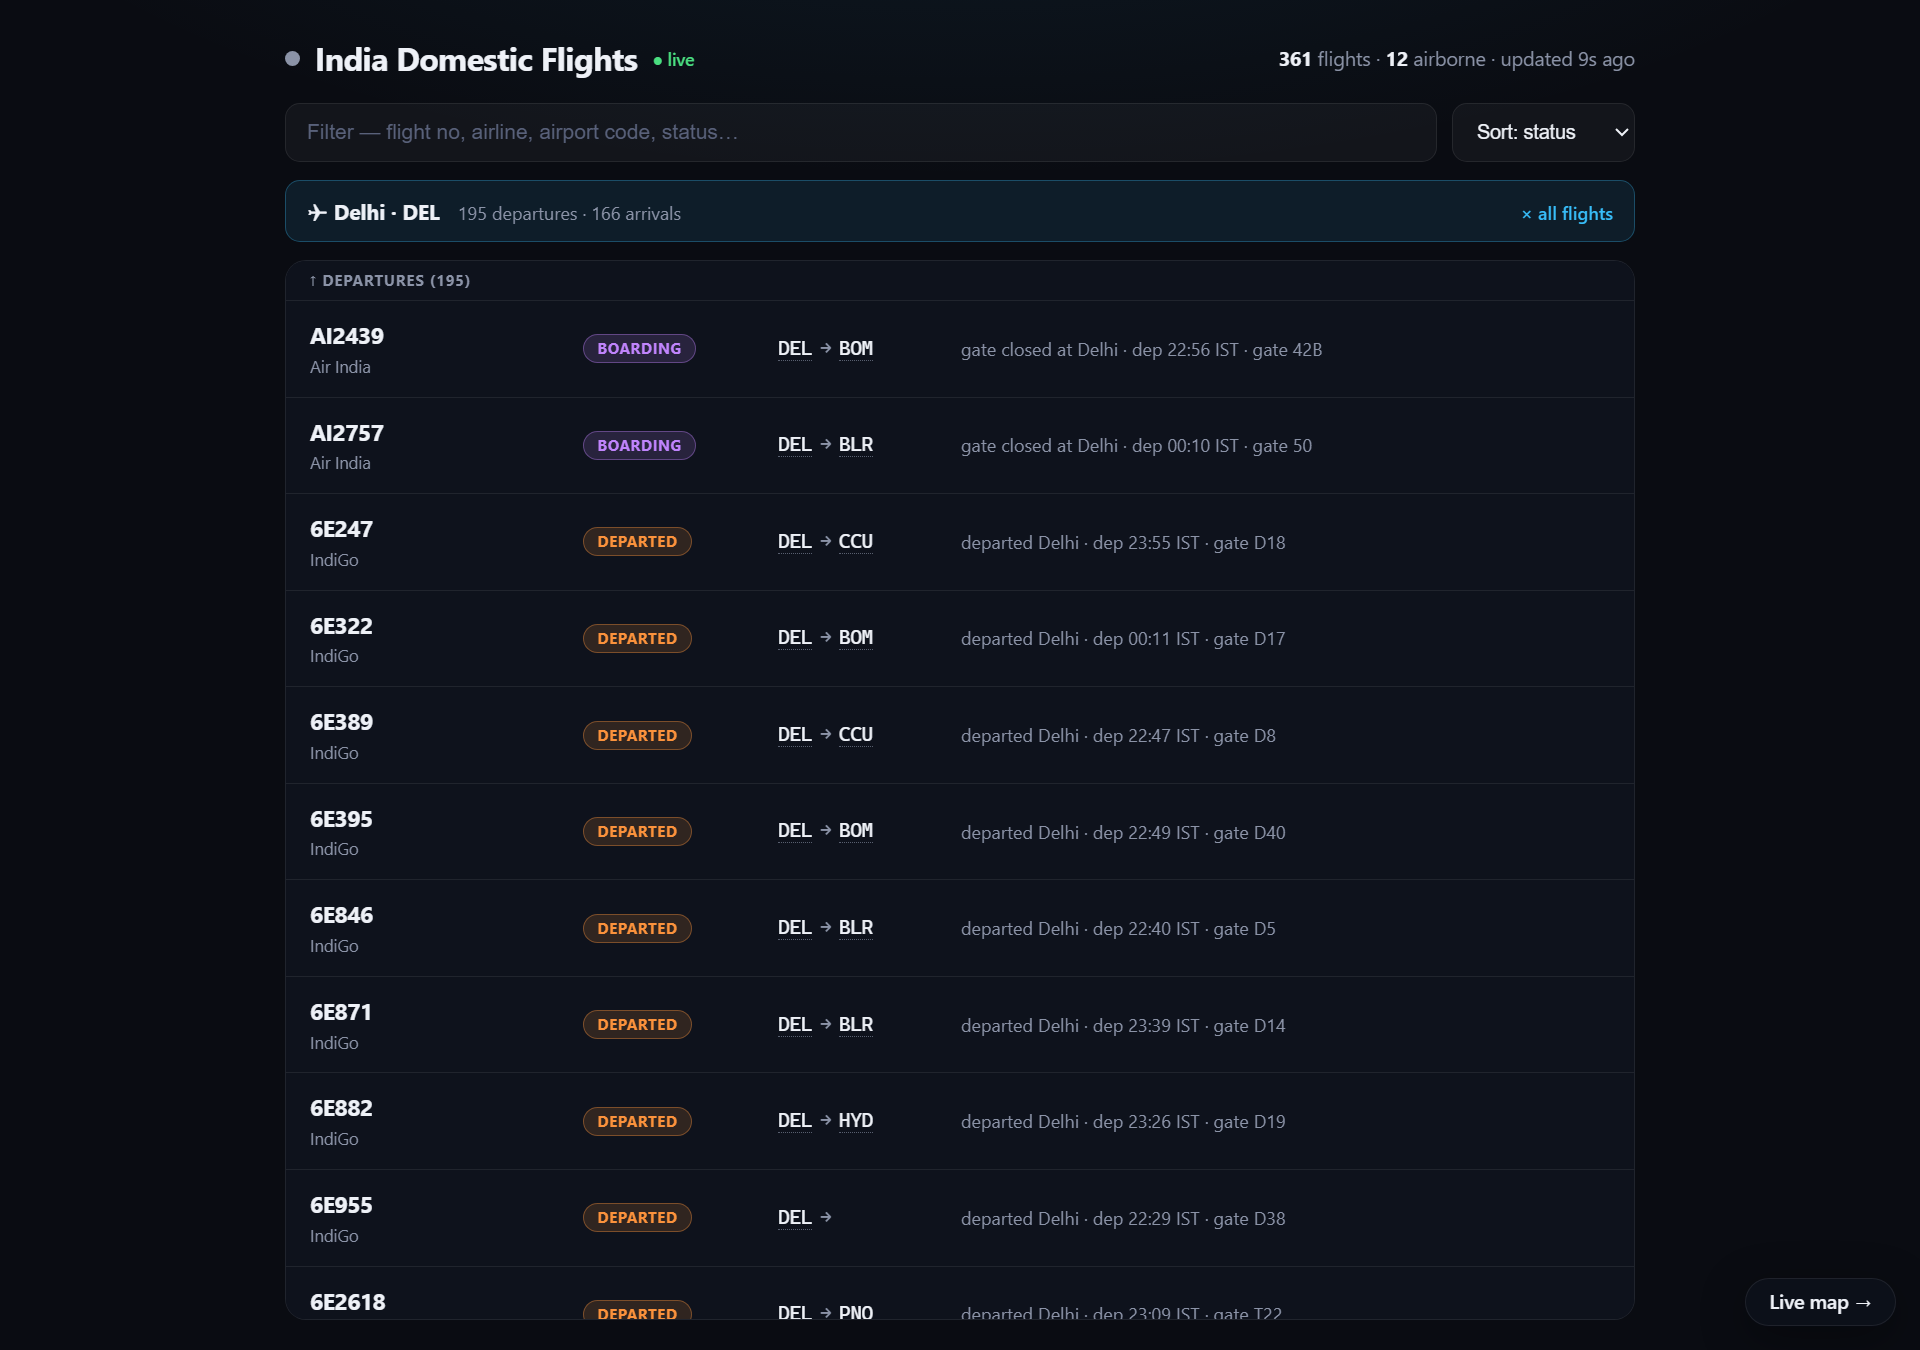
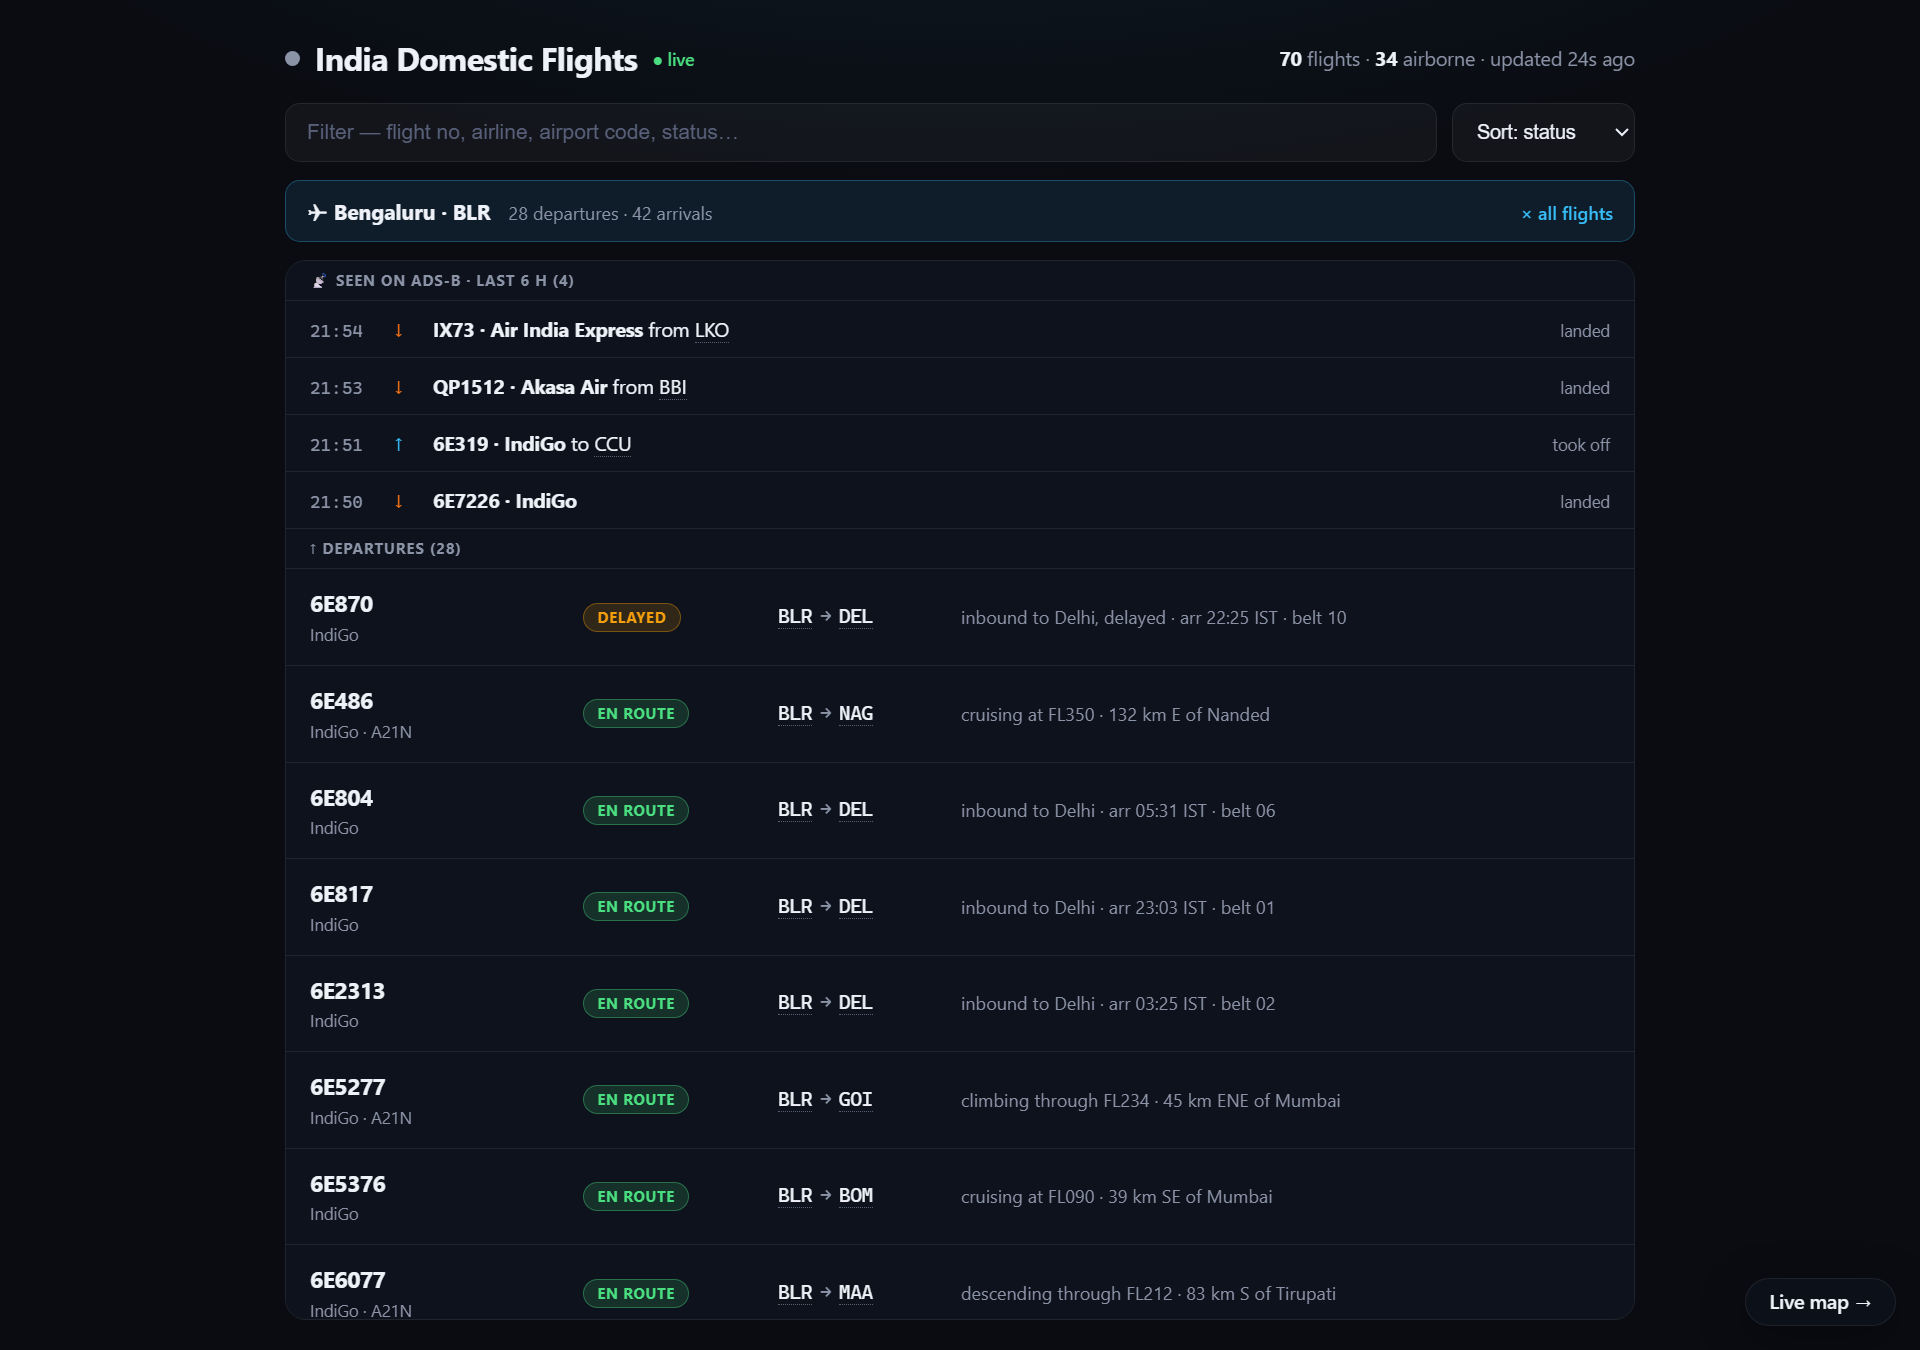
README: retake the airport screenshot with observed movements
Bengaluru, captured from the live deploy: the "Seen on ADS-B" list (real
landings and a takeoff heard in the last few minutes) above the split
departures and arrivals. Fix the text that still said the list sits below.

diff --git a/README.md b/README.md
@@ -25,8 +25,9 @@ the first request after an idle period takes ~40 s to wake.
 - **Airport boards & deep-links** - click any airport code in a route for that
   airport's board, split into departures and arrivals. Every view is a shareable URL:
   `#airport/DEL`, `#flight/6E2361`, `#map`. `GET /api/airport/{iata}` serves the same
-  split as JSON. Below it, a **Seen on ADS-B** list shows the takeoffs and landings
-  actually heard at that airport in the last six hours, for any airport the feeds cover.
+  split as JSON. Above the schedule, a **Seen on ADS-B** list shows the takeoffs and
+  landings actually heard at that airport in the last six hours, for any airport the
+  feeds cover.
 - **Live map** - aircraft as heading-aligned silhouettes coloured by altitude, with
   dead-reckoned motion between updates and a trail for the selected flight.
 - **Historical playback** - a scrubber over persisted position history; replay any
@@ -36,7 +37,7 @@ the first request after an idle period takes ~40 s to wake.
 - **Operational endpoints** - Prometheus metrics at `/metrics`, resolver statistics at
   `/api/health`.
 
-![Airport board: Delhi departures and arrivals, split, at `#airport/DEL`.](docs/airport.png)
+![Airport board: Bengaluru at `#airport/BLR`, with the takeoffs and landings seen on ADS-B above the split departures and arrivals.](docs/airport.png)
 
 ![Live map: aircraft as altitude-coloured, heading-aligned silhouettes over an Esri satellite basemap.](docs/map.jpg)
 
